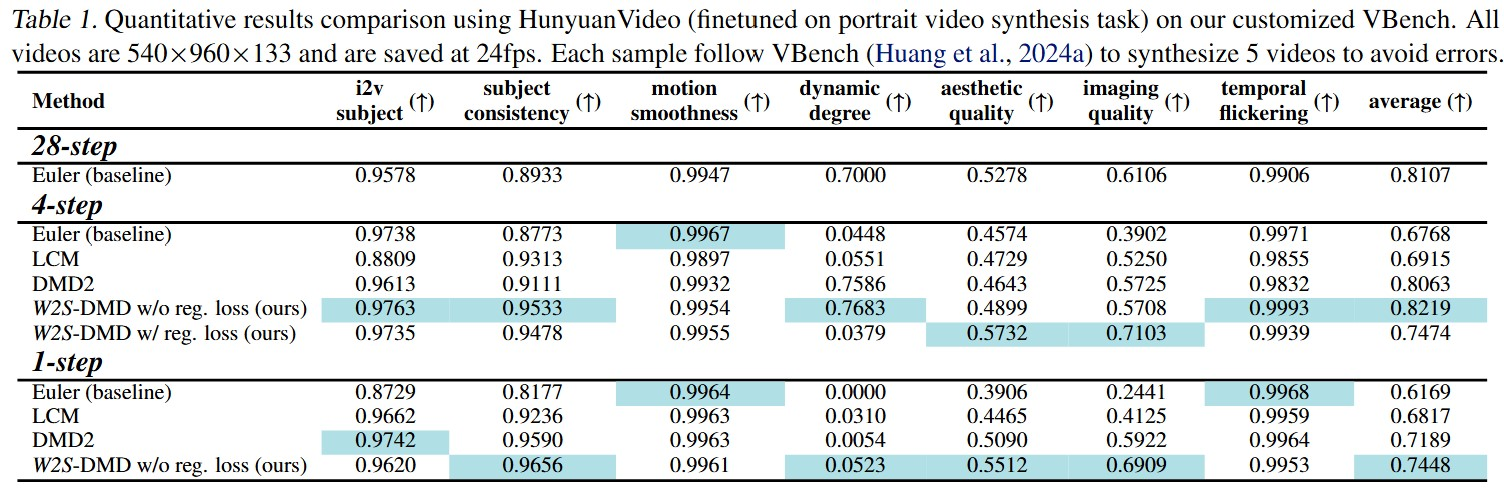
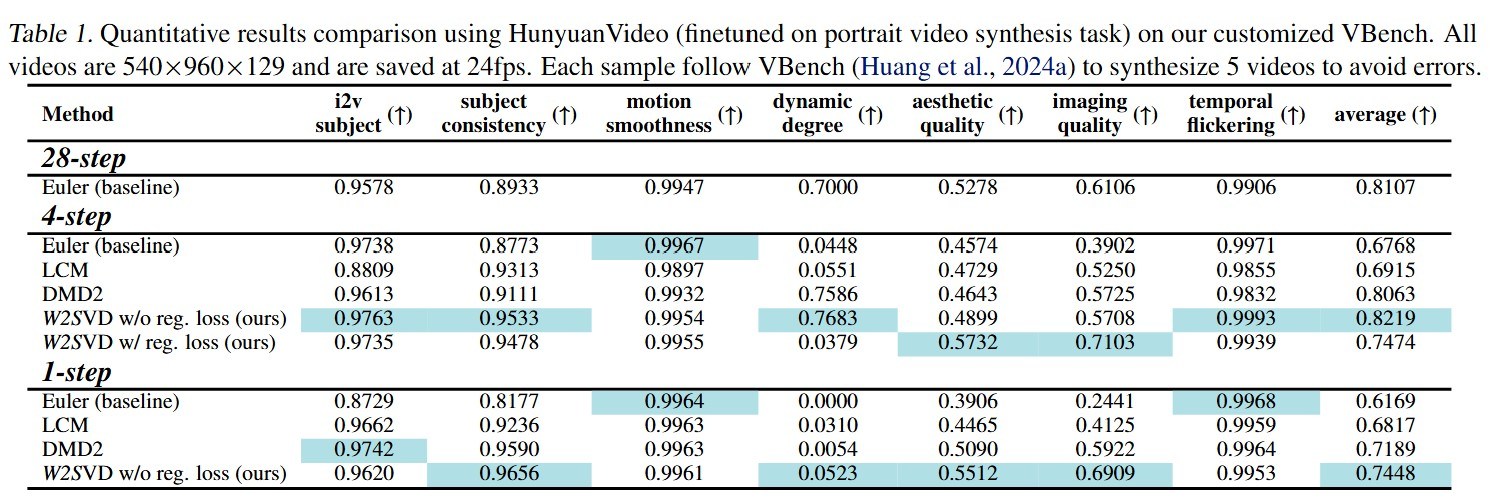
change the name of repo

diff --git a/index.html b/index.html
@@ -24,7 +24,7 @@
   <meta name="viewport" content="width=device-width, initial-scale=1">
 
 
-  <title>W2S-DMD: Weak-to-Strong Distribution Matching Distillation for Efficient Large-Scale Portrait Video Synthesis</title>
+  <title><i>W2S</i>VD: Weak-to-Strong Distribution Matching Distillation for Efficient Large-Scale Portrait Video Synthesis</title>
   <link href="https://fonts.googleapis.com/css?family=Google+Sans|Noto+Sans|Castoro"
   rel="stylesheet">
 
@@ -162,7 +162,7 @@
       <div class="container is-max-desktop">
         <div class="columns is-centered">
           <div class="column has-text-centered">
-            <h1 class="title is-1 publication-title">W2S-DMD: Weak-to-Strong Distribution Matching Distillation for Efficient Large-Scale Portrait Video Synthesis</h1>
+            <h1 class="title is-1 publication-title"><i>W2S</i>VD: <a><i>Weak-to-Strong</i> Video Distillation</a> for Large-Scale Portrait Few-Step Synthesis</h1>
             <div class="is-size-4 publication-authors">
               <!-- Paper authors -->
               <span class="author-block">
@@ -177,7 +177,7 @@
 </section>
 
 <div class="section-title has-text-centered">
-  <h2 class="title is-4">Euler (left) vs. W2S-DMD (right)</h2>
+  <h2 class="title is-4">Euler (left) vs. <i>W2S</i>VD (right)</h2>
 </div>
 
 <!-- Hero Teaser -->
@@ -258,7 +258,7 @@
         <h2 class="title is-3">Abstract</h2>
         <div class="content has-text-justified">
           <p style="font-size:18px;">
-            Recently, open-source video diffusion mdoels (VDMs) have been scaled to over 10 billion (10b+) parameters. Fine-tuning these large-scale VDMs for the portrait video synthesis task can result in significant improvements across multiple dimensions, such as visual quality and natural facial motion dynamics. Despite their advancements, how to achieve step distillation and reduce the substantial computational overhead of large-scale VDMs remains unexplored. To fill this gap, this paper proposes <i>Weak-to-Strong</i> Distribution Matching Distillation (<b><i>W2S</i>-DMD</b>) to mitigate both the issue of insufficient training memory and the problem of training collapse observed in vanilla DMD during the training process. Specifically, we first leverage LoRA to fine-tune the fake diffusion transformer (DiT) to address the out-of-memory issue. Then, we use <i>W2S</i> distribution matching to alleviate the conundrum where the video synthesized by the few-step generator deviates from the real data distribution, leading to inaccuracies in the KL divergence approximation. Additionally, we minimize the distance between the fake data distribution and the ground truth distribution to further enhance the visual quality of the synthesized videos. As experimentally demonstrated on HunyuanVideo, <i>W2S</i>-DMD surpasses the standard Euler, LCM and DMD in FID/FVD and VBench in 1/4-step portrait video synthesis. Moreover, our 4-step generator even outperforms the 28-step standard sampling in VBench.
+            Recently, open-source video diffusion mdoels (VDMs) have been scaled to over 10 billion (10b+) parameters. Fine-tuning these large-scale VDMs for the portrait video synthesis task can result in significant improvements across multiple dimensions, such as visual quality and natural facial motion dynamics. Despite their advancements, how to achieve step distillation and reduce the substantial computational overhead of large-scale VDMs remains unexplored. To fill this gap, this paper proposes <i>Weak-to-Strong</i> Video Distillation (<b><i>W2S</i>VD</b>) to mitigate both the issue of insufficient training memory and the problem of training collapse observed in vanilla DMD during the training process. Specifically, we first leverage LoRA to fine-tune the fake diffusion transformer (DiT) to address the out-of-memory issue. Then, we use <i>W2S</i> distribution matching to alleviate the conundrum where the video synthesized by the few-step generator deviates from the real data distribution, leading to inaccuracies in the KL divergence approximation. Additionally, we minimize the distance between the fake data distribution and the ground truth distribution to further enhance the visual quality of the synthesized videos. As experimentally demonstrated on HunyuanVideo, <i>W2S</i>VD surpasses the standard Euler, LCM and DMD in FID/FVD and VBench in 1/4-step portrait video synthesis. Moreover, our 4-step generator even outperforms the 28-step standard sampling in VBench.
           </p>
         </div>
       </div>
@@ -278,9 +278,9 @@
       </div>
          
       <p class="text-with-margin" style="font-size:18px;">1. We apply DMD to large-scale HunyuanVideo and address the out-of-memory issue by leveraging LoRA to fine-tune the fake diffusion transformer (DiT). </p>
-      <p class="text-with-margin" style="font-size:18px;">2. We propose <i>Weak-to-Strong</i> Distribution Matching Distillation (<b><i>W2S</i>-DMD</b>) to mitigate the problem of training collapse observed in vanilla DMD during the training process. </p>
+      <p class="text-with-margin" style="font-size:18px;">2. We propose <i>Weak-to-Strong</i> Distribution Matching Distillation (<b><i>W2S</i>VD</b>) to mitigate the problem of training collapse observed in vanilla DMD during the training process. </p>
       <p class="text-with-margin" style="font-size:18px;">3. We also introduce a KL divergence approximation between the fake data distribution and the ground truth distribution, which can effectively achieve a balance between visual quality and motion dynamics.</p>
-      <p class="text-with-margin" style="font-size:18px;">4. We validate our proposed approach using benchmark datasets alongside our own collected widescreen video dataset. We verified the superiority of <i>W2S</i>-DMD in FID, FVD and VBench metrics.</p>
+      <p class="text-with-margin" style="font-size:18px;">4. We validate our proposed approach using benchmark datasets alongside our own collected widescreen video dataset. We verified the superiority of <i>W2S</i>VD in FID, FVD and VBench metrics.</p>
     
     </div>
   </div>
@@ -539,7 +539,7 @@
       <div class="spacer"></div>
 
       <div class="section-title has-text-centered">
-        <h2 class="title is-4">W2S-DMD (4-step)</h2>
+        <h2 class="title is-4"><i>W2S</i>VD (4-step)</h2>
       </div>
 
       <div class="mochi-container"> 
@@ -759,7 +759,7 @@
       <div class="spacer"></div>
 
       <div class="section-title has-text-centered">
-        <h2 class="title is-4">W2S-DMD (1-step)</h2>
+        <h2 class="title is-4"><i>W2S</i>VD (1-step)</h2>
       </div>
 
       <div class="mochi-container"> 
@@ -826,7 +826,7 @@
           <img src="./static/images/visualization.jpg" width="100%" />
         </div>
            
-        <p class="text-with-margin" style="font-size:18px;">Visualization of W2S-DMD, vanilla DMD2, LCM, and the standard Euler sampling. In both 1-step and 4-step scenarios, <a>W2S-DMD</a> visibly outperforms other methods in terms of visual quality and facial motion dynamics.</p>
+        <p class="text-with-margin" style="font-size:18px;">Visualization of <i>W2S</i>VD, vanilla DMD2, LCM, and the standard Euler sampling. In both 1-step and 4-step scenarios, <i>W2S</i>VD visibly outperforms other methods in terms of visual quality and facial motion dynamics.</p>
       
       </div>
 
